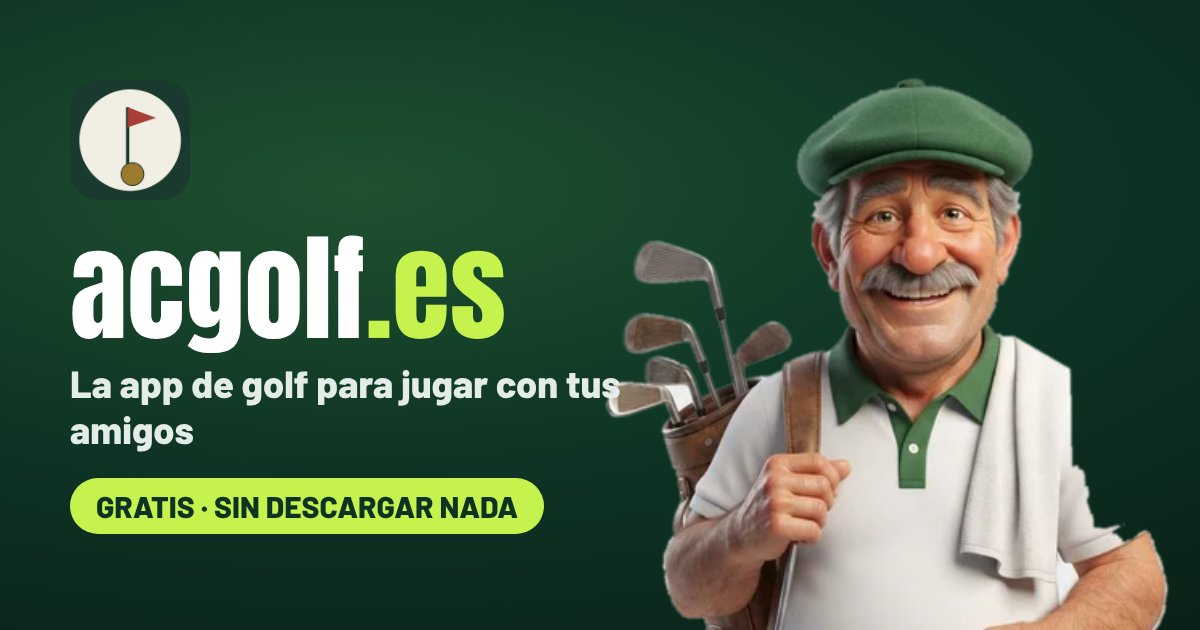
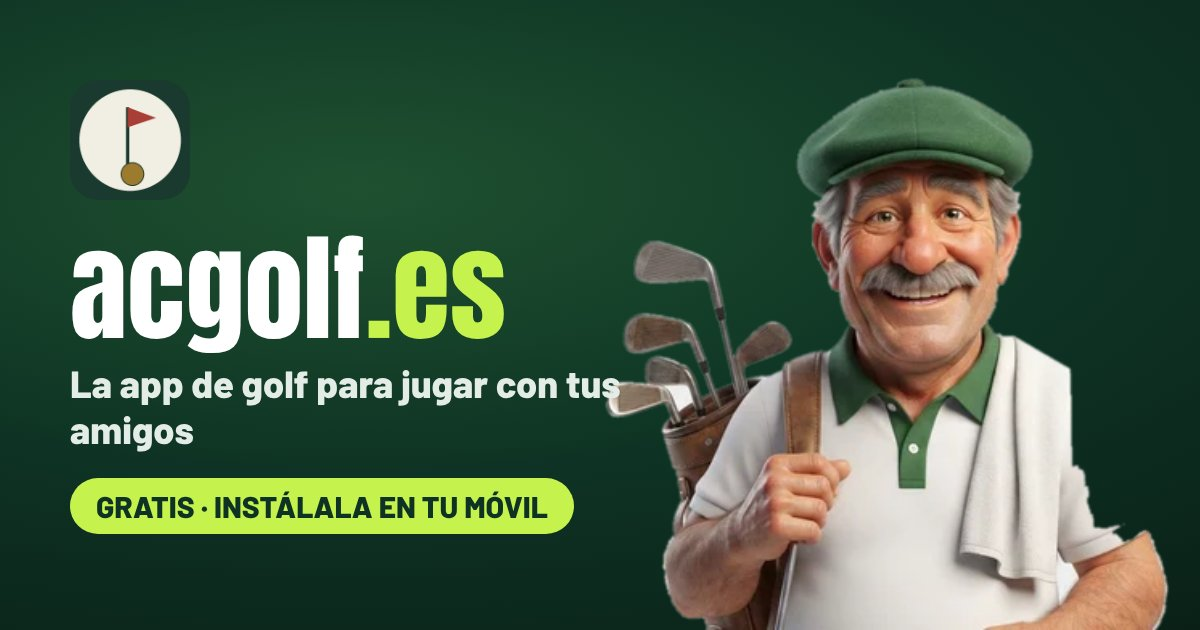
Web: «instálala en tu móvil» en lugar de «sin instalar nada»
Claude-Session: https://claude.ai/code/session_01UfWKTeAo2iiSN5n9xF75Mu

Changed region(s): [[0.1542, 0.754, 0.4933, 0.8746]]

diff --git a/acgolf-es/app-golf.html b/acgolf-es/app-golf.html
@@ -4,7 +4,7 @@
 <meta charset="utf-8">
 <meta name="viewport" content="width=device-width, initial-scale=1, viewport-fit=cover">
 <title>App de golf gratis para jugar con amigos: tarjeta, hándicap y liga | acgolf</title>
-<meta name="description" content="acgolf es una app de golf gratis para el móvil: apunta la tarjeta hoyo a hoyo, calcula el hándicap y los puntos Stableford, organiza partidos y lleva la liga de tu grupo de amigos. Sin instalar nada.">
+<meta name="description" content="acgolf es una app de golf gratis para el móvil: apunta la tarjeta hoyo a hoyo, calcula el hándicap y los puntos Stableford, organiza partidos y lleva la liga de tu grupo de amigos. Instálala en tu móvil en un minuto.">
 <link rel="canonical" href="https://acgolf.es/app-golf.html">
 <meta name="theme-color" content="#111316">
 <link rel="icon" href="icon-192.png" type="image/png">
@@ -23,7 +23,7 @@
 {"@context":"https://schema.org","@graph":[
 {"@type":"WebApplication","name":"acgolf","url":"https://acgolf.es/","applicationCategory":"SportsApplication","operatingSystem":"iPhone, Android, ordenador (navegador)","inLanguage":"es","description":"App de golf gratis para jugar con amigos: tarjeta hoyo a hoyo, hándicap de juego, Stableford, liga del grupo y estadísticas.","offers":{"@type":"Offer","price":"0","priceCurrency":"EUR"},"image":"https://acgolf.es/icon-512.png"},
 {"@type":"FAQPage","mainEntity":[
-{"@type":"Question","name":"¿acgolf es gratis?","acceptedAnswer":{"@type":"Answer","text":"Sí. acgolf es gratis y no hace falta descargarla de ninguna tienda: se abre en el navegador del móvil, en acgolf.es, y se puede añadir a la pantalla de inicio."}},
+{"@type":"Question","name":"¿acgolf es gratis?","acceptedAnswer":{"@type":"Answer","text":"Sí. acgolf es gratis. Entra en acgolf.es desde el móvil e instálala en la pantalla de inicio en un minuto, sin pasar por ninguna tienda de aplicaciones."}},
 {"@type":"Question","name":"¿Calcula el hándicap de juego y los puntos Stableford?","acceptedAnswer":{"@type":"Answer","text":"Sí. Con tu hándicap y las barras de salida, acgolf calcula los golpes que recibes en cada hoyo, el resultado neto y los puntos Stableford de cada jugador."}},
 {"@type":"Question","name":"¿Pueden apuntar los golpes varios jugadores a la vez?","acceptedAnswer":{"@type":"Answer","text":"Sí. Cada jugador puede seguir la partida desde su móvil y la clasificación se actualiza al momento para todo el grupo."}},
 {"@type":"Question","name":"¿En qué campos de golf funciona?","acceptedAnswer":{"@type":"Answer","text":"Trae los campos de Sevilla, Huelva y Cádiz con sus barras, rating y slope, y un buscador para encontrar otros campos de España."}},
@@ -105,10 +105,10 @@
 
   <h2>Cómo empezar en un minuto</h2>
   <ol class="pasos">
-    <li><b>Abre acgolf.es</b> en el navegador del móvil. No hay que descargar nada de ninguna tienda.</li>
+    <li><b>Entra en acgolf.es</b> desde el móvil.</li>
     <li><b>Crea tu cuenta</b> con tu correo y elige o crea tu grupo de amigos.</li>
     <li><b>Pulsa «Crear partida»</b>, elige el campo y los jugadores, y apunta los golpes en cada hoyo.</li>
-    <li>Si quieres, <b>añádela a la pantalla de inicio</b> y se abrirá como cualquier otra aplicación (<a href="instalar.html">ver cómo</a>).</li>
+    <li><b>Instálala en tu móvil</b>: queda en la pantalla de inicio y se abre como cualquier otra aplicación (<a href="instalar.html">ver cómo</a>).</li>
   </ol>
 
   <h2>Campos de golf incluidos</h2>
@@ -120,7 +120,7 @@
   </ul>
 
   <h2>Preguntas frecuentes</h2>
-  <details><summary>¿acgolf es gratis?</summary><p>Sí. acgolf es gratis y no hace falta descargarla de ninguna tienda: se abre en el navegador del móvil, en acgolf.es, y se puede añadir a la pantalla de inicio.</p></details>
+  <details><summary>¿acgolf es gratis?</summary><p>Sí. acgolf es gratis. Entra en acgolf.es desde el móvil e instálala en la pantalla de inicio en un minuto, sin pasar por ninguna tienda de aplicaciones.</p></details>
   <details><summary>¿Calcula el hándicap de juego y los puntos Stableford?</summary><p>Sí. Con tu hándicap y las barras de salida, acgolf calcula los golpes que recibes en cada hoyo, el resultado neto y los puntos Stableford de cada jugador.</p></details>
   <details><summary>¿Pueden apuntar los golpes varios jugadores a la vez?</summary><p>Sí. Cada jugador puede seguir la partida desde su móvil y la clasificación se actualiza al momento para todo el grupo.</p></details>
   <details><summary>¿En qué campos de golf funciona?</summary><p>Trae los campos de Sevilla, Huelva y Cádiz con sus barras, rating y slope, y un buscador para encontrar otros campos de España.</p></details>
